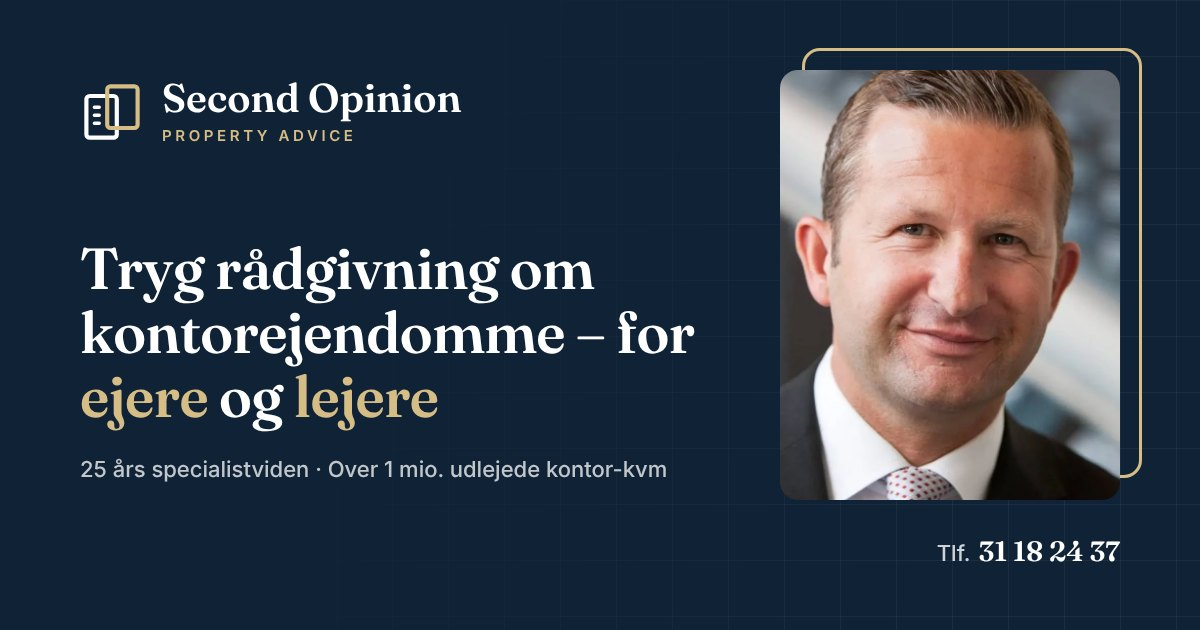
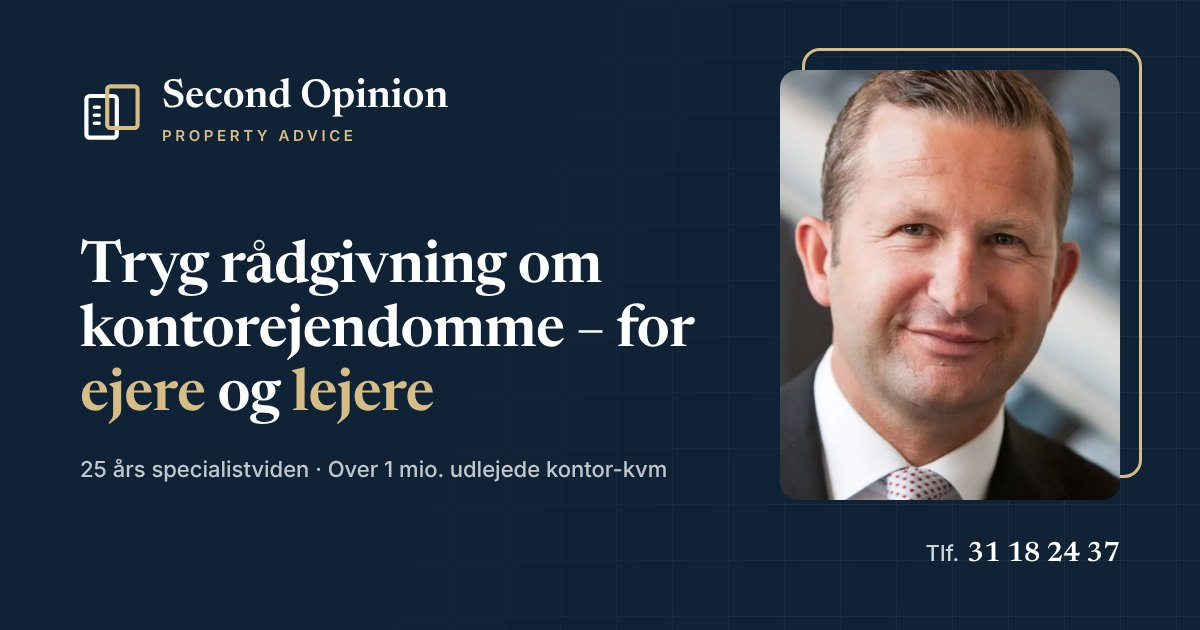
Switch display font from Fraunces to Newsreader
Fraunces' wonky letterforms (notably the f) looked off in headings.

Claude-Session: https://claude.ai/code/session_01UF26fSNWmwTPbYNDFmuaah

Changed region(s): [[0.0617, 0.3619, 0.5858, 0.6937], [0.1233, 0.1206, 0.4008, 0.2111], [0.7708, 0.8444, 0.925, 0.9048]]

diff --git a/index.html b/index.html
@@ -21,7 +21,7 @@
   <link rel="apple-touch-icon" href="/assets/apple-touch-icon.png" />
   <link rel="preconnect" href="https://fonts.googleapis.com" />
   <link rel="preconnect" href="https://fonts.gstatic.com" crossorigin />
-  <link href="https://fonts.googleapis.com/css2?family=Inter:wght@400;500;600&family=Fraunces:ital,opsz,wght@0,9..144,500;0,9..144,600;1,9..144,500&display=swap" rel="stylesheet" />
+  <link href="https://fonts.googleapis.com/css2?family=Inter:wght@400;500;600&family=Newsreader:ital,opsz,wght@0,6..72,500;0,6..72,600;1,6..72,500&display=swap" rel="stylesheet" />
   <link rel="stylesheet" href="/style.css" />
   <script>document.documentElement.classList.add('js');</script>
   <script type="application/ld+json">{"@context": "https://schema.org", "@type": "ProfessionalService", "name": "Second Opinion – Property Advice", "description": "Rådgivning om kontorejendomme til ejere og lejere – med 25 års specialistviden.", "url": "https://second-opinion-ruby.vercel.app/", "image": "https://second-opinion-ruby.vercel.app/assets/og-image.jpg", "logo": "https://second-opinion-ruby.vercel.app/assets/apple-touch-icon.png", "telephone": "+4531182437", "founder": {"@type": "Person", "name": "Jesper Norgart", "jobTitle": "Erhvervsmægler", "image": "https://second-opinion-ruby.vercel.app/assets/jesper-norgart.jpg"}, "knowsAbout": ["Kontorejendomme", "Erhvervsudlejning", "Projektudvikling", "Erhvervslejekontrakter"]}</script>
@@ -49,7 +49,7 @@
       <div class="wrap hero-grid">
         <div class="hero-text">
           <p class="eyebrow reveal">Rådgivning om kontorejendomme</p>
-          <h1 class="reveal reveal-d1">Tryg rådgivning om kontor&shy;ejendomme – for <em>ejere</em> og <em>lejere</em></h1>
+          <h1 class="reveal reveal-d1">Tryg rådgivning om kontorejendomme – for <em>ejere</em> og <em>lejere</em></h1>
           <p class="lead reveal reveal-d2">
             Med 25 års specialistviden inden for kontorejendomme og rådgivning bag over
             1 million udlejede kontor-kvm er jeg det trygge og sikre valg.

diff --git a/ejere.html b/ejere.html
@@ -21,7 +21,7 @@
   <link rel="apple-touch-icon" href="/assets/apple-touch-icon.png" />
   <link rel="preconnect" href="https://fonts.googleapis.com" />
   <link rel="preconnect" href="https://fonts.gstatic.com" crossorigin />
-  <link href="https://fonts.googleapis.com/css2?family=Inter:wght@400;500;600&family=Fraunces:ital,opsz,wght@0,9..144,500;0,9..144,600;1,9..144,500&display=swap" rel="stylesheet" />
+  <link href="https://fonts.googleapis.com/css2?family=Inter:wght@400;500;600&family=Newsreader:ital,opsz,wght@0,6..72,500;0,6..72,600;1,6..72,500&display=swap" rel="stylesheet" />
   <link rel="stylesheet" href="/style.css" />
   <script>document.documentElement.classList.add('js');</script>
 </head>

diff --git a/lejere.html b/lejere.html
@@ -21,7 +21,7 @@
   <link rel="apple-touch-icon" href="/assets/apple-touch-icon.png" />
   <link rel="preconnect" href="https://fonts.googleapis.com" />
   <link rel="preconnect" href="https://fonts.gstatic.com" crossorigin />
-  <link href="https://fonts.googleapis.com/css2?family=Inter:wght@400;500;600&family=Fraunces:ital,opsz,wght@0,9..144,500;0,9..144,600;1,9..144,500&display=swap" rel="stylesheet" />
+  <link href="https://fonts.googleapis.com/css2?family=Inter:wght@400;500;600&family=Newsreader:ital,opsz,wght@0,6..72,500;0,6..72,600;1,6..72,500&display=swap" rel="stylesheet" />
   <link rel="stylesheet" href="/style.css" />
   <script>document.documentElement.classList.add('js');</script>
 </head>

diff --git a/style.css b/style.css
@@ -14,7 +14,7 @@
   --radius-sm: 10px;
   --shadow: 0 1px 2px rgba(15, 34, 54, 0.04), 0 12px 32px rgba(15, 34, 54, 0.08);
   --shadow-lg: 0 2px 4px rgba(15, 34, 54, 0.05), 0 24px 56px rgba(15, 34, 54, 0.14);
-  --serif: 'Fraunces', Georgia, 'Times New Roman', serif;
+  --serif: 'Newsreader', Georgia, 'Times New Roman', serif;
   --sans: 'Inter', -apple-system, BlinkMacSystemFont, 'Segoe UI', sans-serif;
   --header-h: 78px;
   color-scheme: light;
@@ -224,7 +224,7 @@ a { color: inherit; }
   align-items: center;
 }
 
-.hero h1 { max-width: 14ch; }
+.hero h1 { max-width: 620px; }
 .hero h1 em { font-style: italic; font-weight: 500; color: var(--gold); }
 .hero .lead { max-width: 560px; }
 
